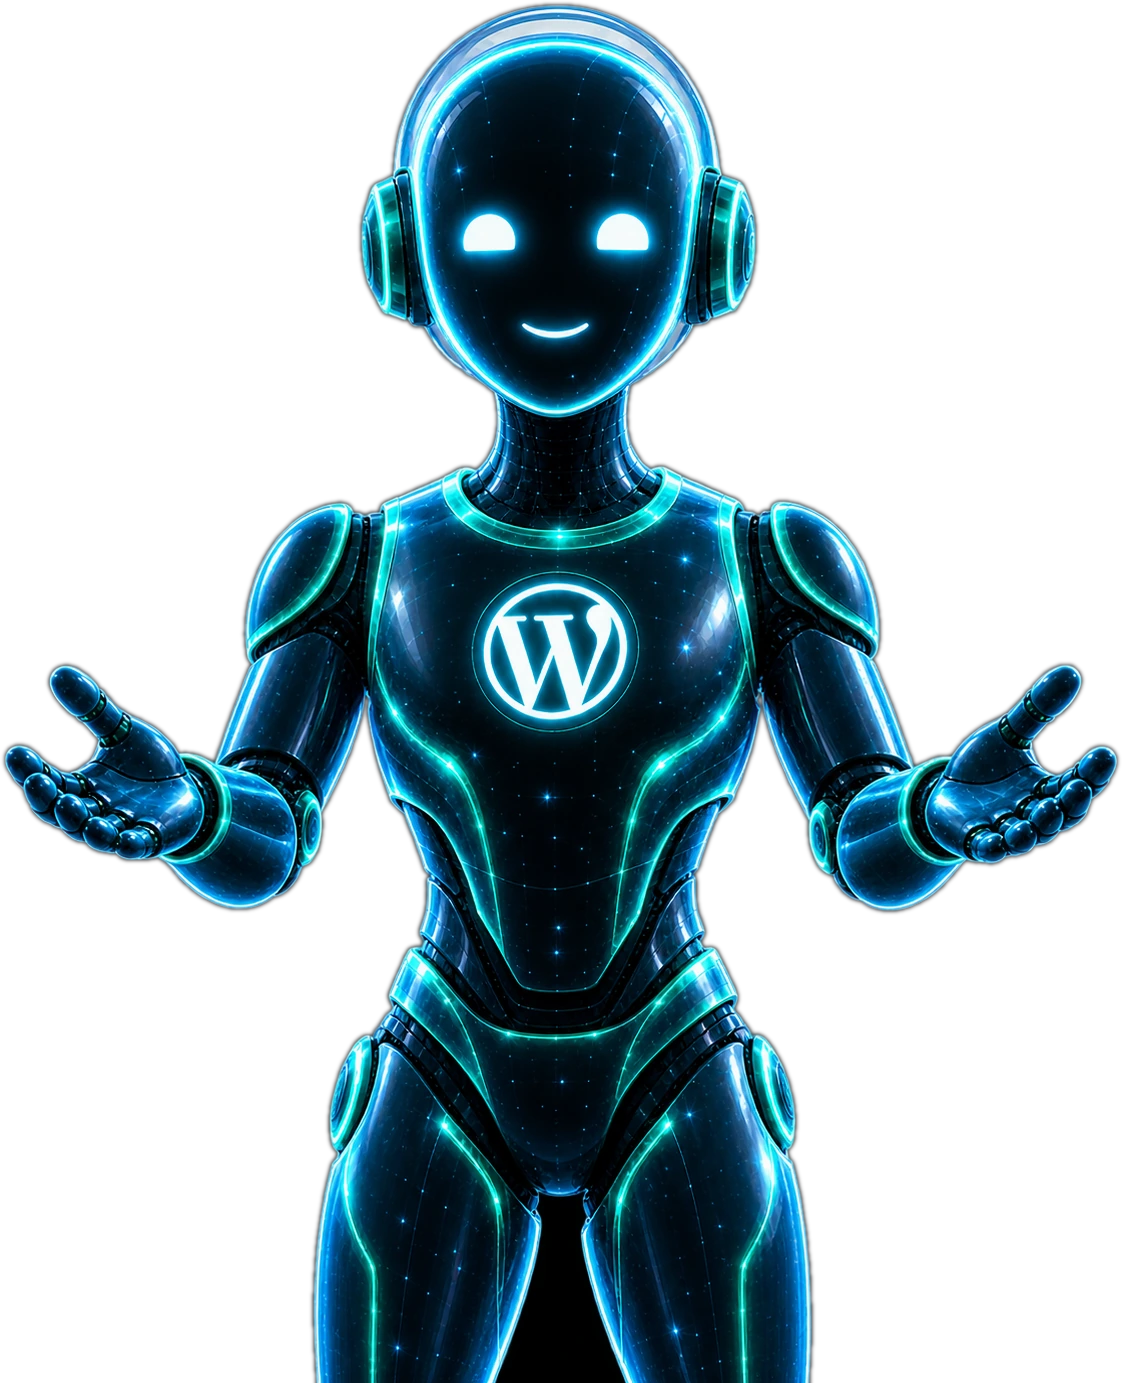
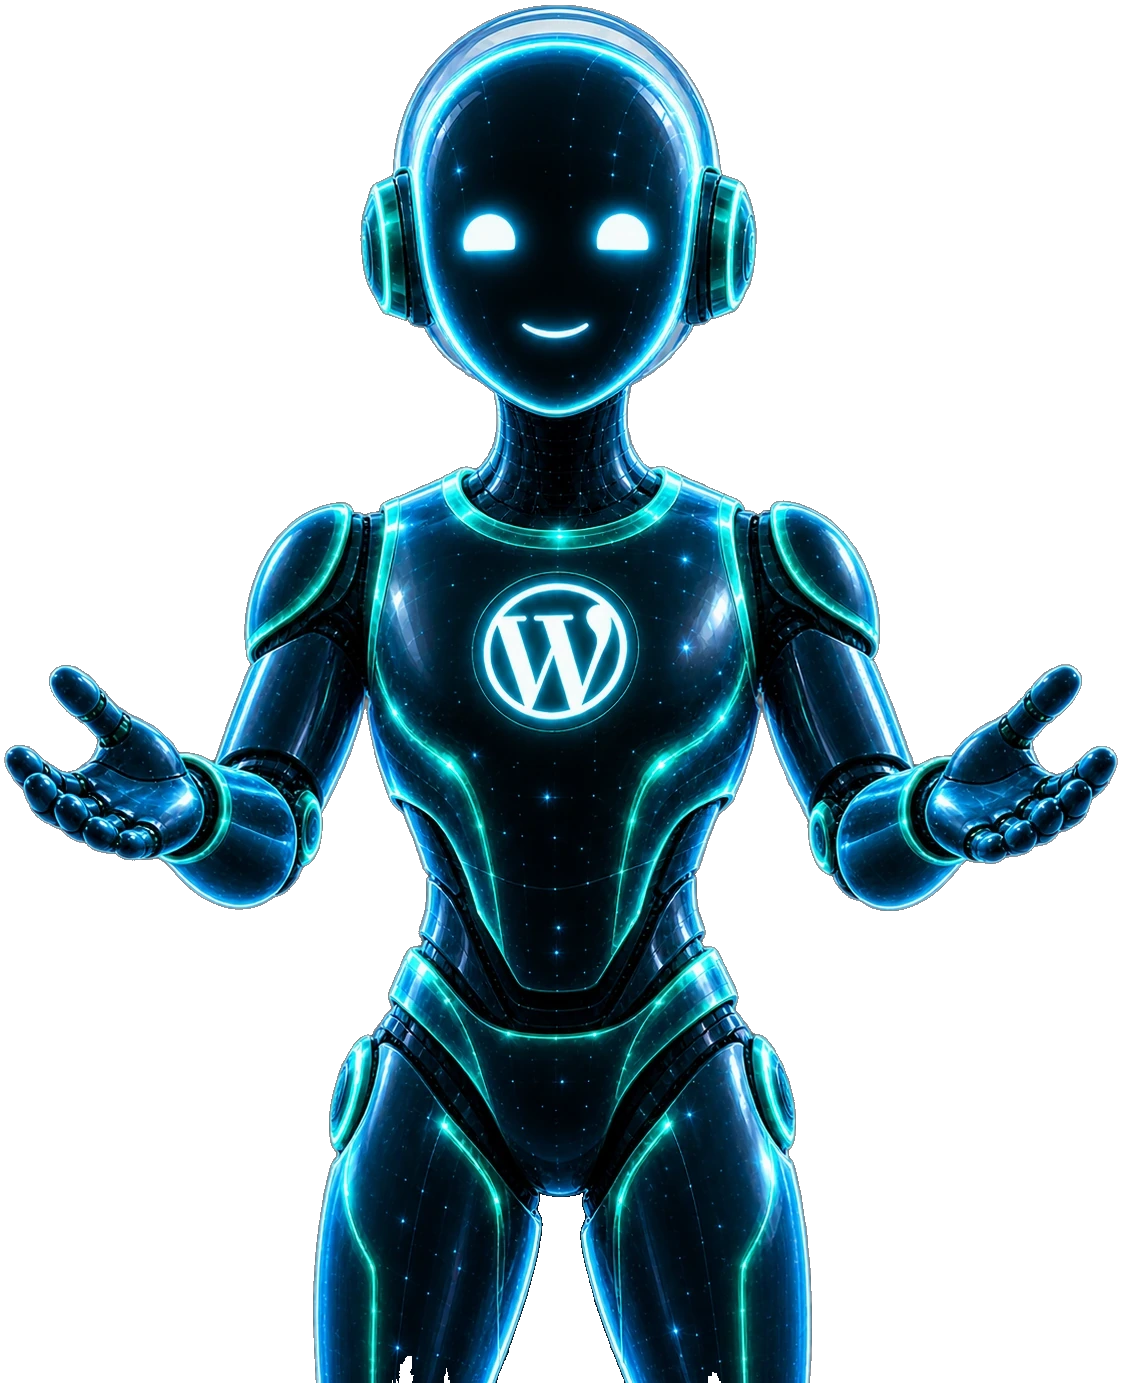
clean legs on the language robot, and Who This Is For restacked
THE RENDER IS EDITED, not the CSS. The wedge between the robot's legs was
opaque pure black (alpha 255, rgb 0,0,0) baked into robot-languages.webp -- an
interior region, so no stylesheet could remove it. Flood-filled to transparent
from the bottom edge, which lets the legs' own lit rims bound the fill rather
than a rectangle guessing where they are. 2.64% of pixels cleared, file 233KB
-> 223KB. Checked as a before/after composite on cream, not on the black PNG
preview, where transparency is invisible by definition.

WHO THIS IS FOR IS NO LONGER A SPLIT. It was image-left / list-right, and the
list is five groups and sixteen names in one column, so it ran far past the
bottom of the 440px image and the two-column layout was permanently lopsided.

Now two stacked rows: isometric + excerpt side by side, then the list at full
width. THE LIST GETS SHORTER BY GETTING WIDER -- five groups become five
columns instead of one stack, 217px tall where it used to set the section's
height. That is the fix the Split could not structurally provide.

`auto-fit` rather than repeat(5, ...): the registry drives the group count and
a hardcoded five leaves a ragged empty column the day a sixth is added.

⚠ THE EXCERPT NEEDED A NEW MOBILE RULE. It used to be a CHILD of
.industries__art, so hiding the art hid it too; making it a sibling (which is
what puts it beside the isometric) broke that inheritance. Without an explicit
[…]

diff --git a/assets/css/site.css b/assets/css/site.css
@@ -2272,7 +2272,21 @@ body.sitestaffr-landing-page .hero__visual > * {
 .industries { background: var(--cream); }
 .industries__header { text-align: center; margin-bottom: 40px; }
 .industries__subtitle { color: var(--text-secondary); margin-top: 8px; }
-.industries__grid { align-items: start; }
+/* ---- Two stacked rows, not a Split ------------------------------------
+   Mario, 2026-08-27: the Split "looks weird because the industries is too long
+   vertically". The list is five groups and sixteen names; in one column of a Split it
+   ran far past the bottom of the 440px image beside it.
+
+   ROW 1: isometric | excerpt.   ROW 2: the whole list, full width.
+
+   The list gets shorter by getting WIDER — five groups become five columns instead of
+   one stack — which is the fix the Split structurally could not provide. */
+.industries__stage {
+  display: grid;
+  grid-template-columns: minmax(0, 0.85fr) minmax(0, 1fr);
+  gap: clamp(24px, 4vw, 52px);
+  align-items: center;
+}
 
 .industries__art { position: relative; }
 .industries__panel { display: none; }
@@ -2297,14 +2311,17 @@ body.sitestaffr-landing-page .hero__visual > * {
   border-radius: var(--radius-xl);
 }
 
-.industries__excerpt-item { display: none; text-align: center; margin-top: 8px; }
+/* LEFT-ALIGNED NOW, not centred. It used to sit under the image as a caption, where
+   centring was right; beside the image it is a column of prose, and centred prose in a
+   column reads as a pull-quote rather than as a description. */
+.industries__excerpt-item { display: none; margin-top: 0; }
 .industries__excerpt-item.is-active { display: block; }
-.industries__excerpt-item h3 { font-size: 1.15rem; margin-bottom: 6px; }
+.industries__excerpt-item h3 { font-size: 1.4rem; margin-bottom: 10px; }
 .industries__excerpt-item p {
   color: var(--text-secondary);
-  font-size: 0.92rem;
+  font-size: 1rem;
+  line-height: 1.65;
   max-width: 42ch;
-  margin-inline: auto;
 }
 .industries__link {
   display: inline-block;
@@ -2316,7 +2333,24 @@ body.sitestaffr-landing-page .hero__visual > * {
 }
 .industries__link:hover { border-bottom-color: var(--teal-deep); }
 
-.industries__group + .industries__group { margin-top: 22px; }
+/* ⚠ THE LIST IS FIVE COLUMNS, ONE PER GROUP — this is what actually fixes the
+   complaint. Stacked in a single column the five groups were the tallest thing in the
+   section; side by side the tallest group sets the height and the whole block is a few
+   names deep.
+
+   `auto-fit` rather than a hard `repeat(5, ...)`: the registry drives the group count,
+   and a hardcoded 5 would silently leave a ragged empty column the day a sixth group is
+   added. 160px is comfortably wider than the longest industry name at this size. */
+.industries__list {
+  margin-top: clamp(30px, 5vw, 56px);
+  display: grid;
+  grid-template-columns: repeat(auto-fit, minmax(160px, 1fr));
+  gap: clamp(18px, 2.5vw, 34px);
+  align-items: start;
+}
+/* The stacked-column spacing belonged to the one-column Split. In a grid the gap owns
+   it, and leaving this in adds a phantom offset to every group after the first. */
+.industries__group + .industries__group { margin-top: 0; }
 .industries__group-heading {
   font-family: var(--font-body);
   font-size: 0.7rem;
@@ -2356,7 +2390,15 @@ body.sitestaffr-landing-page .hero__visual > * {
      bit screens, so someone scanning for their trade sees everything at once.
      Two stacked columns would mean tapping a name changes an image scrolled off
      screen; a two-level accordion would be three taps deep. */
-  .industries__art { display: none; }
+  /* ⚠ THE EXCERPT MUST BE HIDDEN EXPLICITLY NOW. It used to be a CHILD of
+     .industries__art, so this one line hid both; the 2026-08-27 restructure made it a
+     sibling so it could sit beside the isometric, and a sibling does not inherit its
+     old parent's display. Left out, the desktop excerpt renders on phones directly
+     above the accordion that repeats the same blurb. */
+  .industries__art,
+  .industries__excerpt { display: none; }
+  .industries__stage { display: block; }
+  .industries__list { margin-top: 0; grid-template-columns: minmax(0, 1fr); }
   .industries__name { padding: 11px 10px; }
   .industries__name::after {
     content: "+";

diff --git a/style.css b/style.css
@@ -4,7 +4,7 @@ Theme URI: https://sitestaffr.com
 Author: SiteStaffr
 Author URI: https://sitestaffr.com
 Description: Marketing site theme for SiteStaffr pages managed in Git.
-Version: 0.8.16
+Version: 0.8.17
 Text Domain: sitestaffr-website
 */
 

diff --git a/page-landing.php b/page-landing.php
@@ -1190,7 +1190,19 @@ $ind_groups = sitestaffr_industry_registry();
 $ind_flat   = sitestaffr_industry_list();
 $ind_first  = ! empty( $ind_flat ) ? $ind_flat[0] : null;
 ?>
-<section class="block block-split block-split--reverse industries" id="industries">
+<?php /* ⚠ NOT A block-split ANY MORE (Mario, 2026-08-27: "the side by side looks weird
+         because the industries is too long vertically and doesn't look good").
+
+         It was image-left / list-right. The list is five groups and sixteen names in ONE
+         column, so it ran far taller than the 440px image beside it and the Split was
+         permanently lopsided — a two-column layout where one column ends two thirds of
+         the way up.
+
+         Now it is two stacked rows: the isometric and its excerpt side by side on top,
+         then the full list underneath at full width, where five groups sit as five
+         columns instead of one tall stack. The list gets SHORTER by getting WIDER, which
+         is the thing the Split could not do. */ ?>
+<section class="block industries" id="industries">
   <div class="block__inner">
     <div class="industries__header">
       <span class="section-label">Who This Is For</span>
@@ -1202,10 +1214,11 @@ $ind_first  = ! empty( $ind_flat ) ? $ind_flat[0] : null;
       </p>
     </div>
 
-    <div class="block-split__grid industries__grid">
-      <?php /* IMAGE LEFT. Section 5 puts the robot on the right, so this alternates —
-               that is the whole reason block-split--reverse exists. */ ?>
-      <div class="block-split__art industries__art">
+    <?php /* ROW 1 — the isometric and its excerpt, side by side. The excerpt used to sit
+             UNDER the image inside the art column; beside it, the pair reads as one card
+             and the row stays short. */ ?>
+    <div class="industries__stage">
+      <div class="industries__art">
         <?php foreach ( $ind_flat as $i => $ind ) :
             $art = sitestaffr_industry_art_url( $ind['slug'] );
             /* ⚠ A MISSING RENDER MUST NOT PRODUCE A BROKEN IMAGE. Medical Staffing is
@@ -1229,10 +1242,13 @@ $ind_first  = ! empty( $ind_flat ) ? $ind_flat[0] : null;
           </div>
         <?php endforeach; ?>
 
-        <?php /* The excerpt sits under the image on desktop and inside each accordion
-                 item on mobile, so it is rendered twice — once here for the pointer
-                 layout, once per item below. Both come from the same registry field. */ ?>
-        <div class="industries__excerpt" data-ind-excerpt>
+      </div>
+
+      <?php /* The excerpt is now a SIBLING of the art, not a child of it — that is what
+               puts it beside the isometric instead of under it. It is still rendered
+               twice in total (once here for the pointer layout, once inside each mobile
+               accordion item below), and both still come from the same registry field. */ ?>
+      <div class="industries__excerpt" data-ind-excerpt>
           <?php foreach ( $ind_flat as $i => $ind ) : ?>
             <div class="industries__excerpt-item<?php echo 0 === $i ? ' is-active' : ''; ?>"
                  data-ind-excerpt-for="<?php echo esc_attr( $ind['slug'] ); ?>">
@@ -1302,7 +1318,6 @@ $ind_first  = ! empty( $ind_flat ) ? $ind_flat[0] : null;
           </div>
         <?php endforeach; ?>
       </div>
-    </div>
   </div>
 </section>
 
